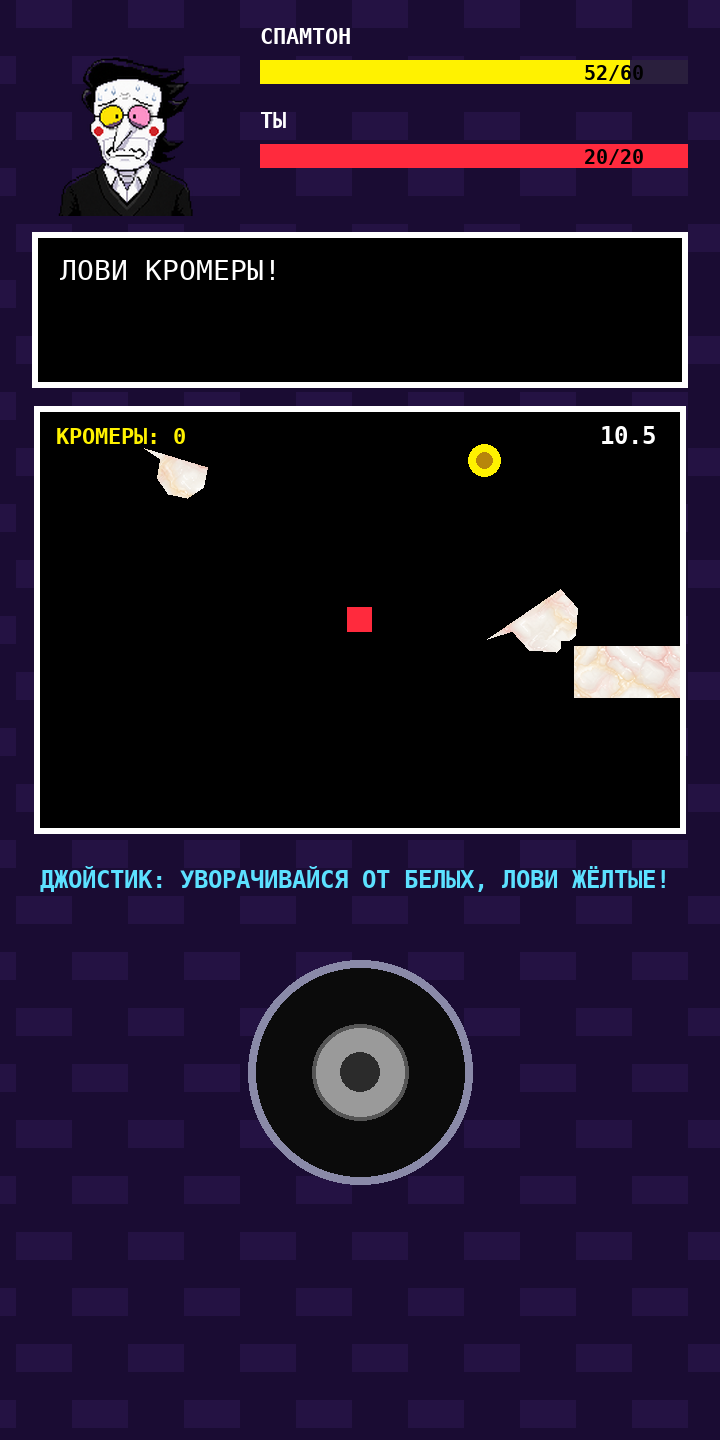
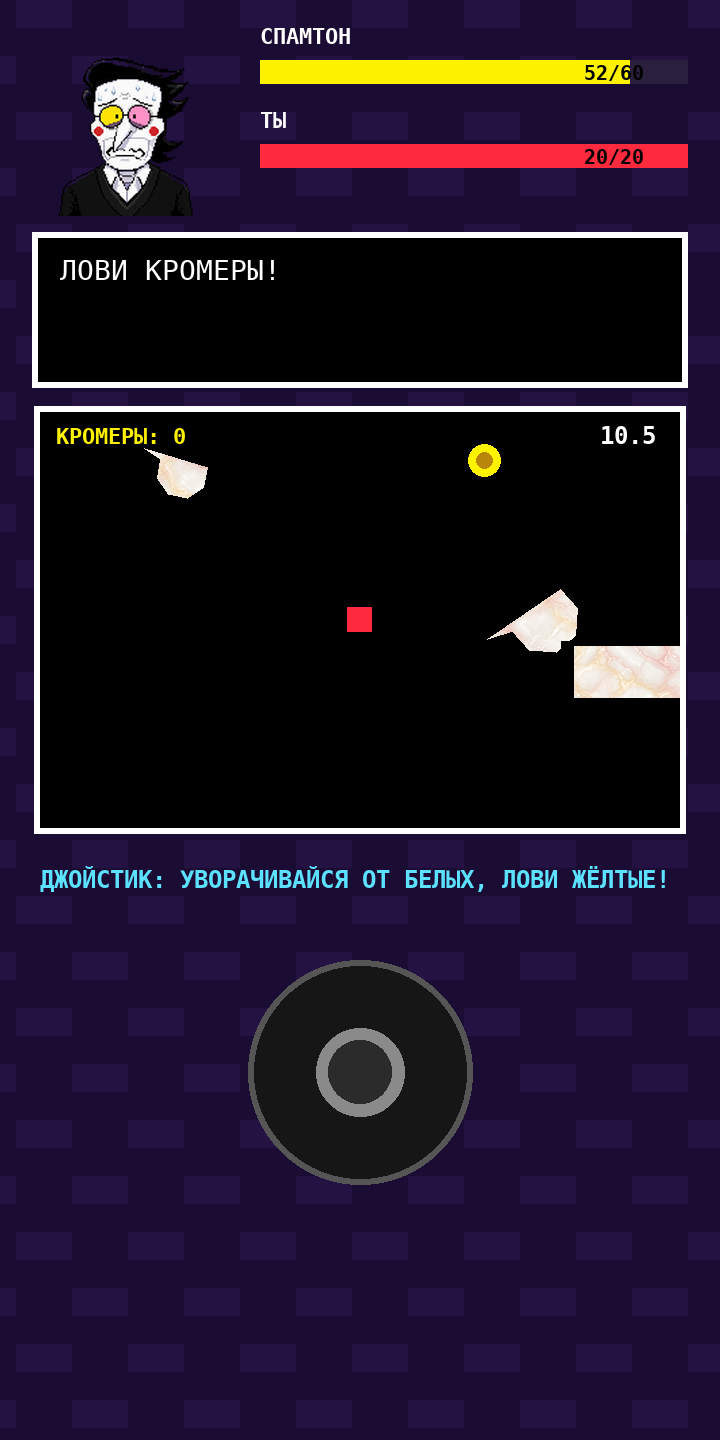
Джойстик: тёмный круг с серым кольцом в центре (как на референсе)

diff --git a/spamton-calc/src/com/example/spamton/SpamtonView.java b/spamton-calc/src/com/example/spamton/SpamtonView.java
@@ -989,18 +989,20 @@ public final class SpamtonView extends View {
     }
 
     /** Джойстик: серое кольцо, тёмный диск и ручка, которая смещается по стику. */
+    /**
+     * Джойстик как на референсе: тёмный круг с тонкой серой каймой и серое кольцо в центре
+     * (ручка, которая сдвигается при нажатии).
+     */
     private void drawJoystick(Canvas c) {
-        paint.setColor(GREY);
-        c.drawCircle(joyCx, joyCy, joyR, paint);
-        paint.setColor(0xFF0B0B0B);
-        c.drawCircle(joyCx, joyCy, joyR - 4 * u, paint);
-        float kx = joyCx + joyStickX * (joyR - knobR), ky = joyCy + joyStickY * (joyR - knobR);
         paint.setColor(0xFF555555);
-        c.drawCircle(kx, ky, knobR + 2 * u, paint);
-        paint.setColor(0xFF9A9A9A);
+        c.drawCircle(joyCx, joyCy, joyR, paint);
+        paint.setColor(0xFF161616);
+        c.drawCircle(joyCx, joyCy, joyR - 3 * u, paint);
+        float kx = joyCx + joyStickX * (joyR - knobR), ky = joyCy + joyStickY * (joyR - knobR);
+        paint.setColor(0xFF8A8A8A);
         c.drawCircle(kx, ky, knobR, paint);
         paint.setColor(0xFF2B2B2B);
-        c.drawCircle(kx, ky, knobR * 0.45f, paint);
+        c.drawCircle(kx, ky, knobR * 0.72f, paint);
     }
 
     /** Текстура белых пуль (res/drawable-nodpi/bullet_tex.png). Без неё пули белые. */
